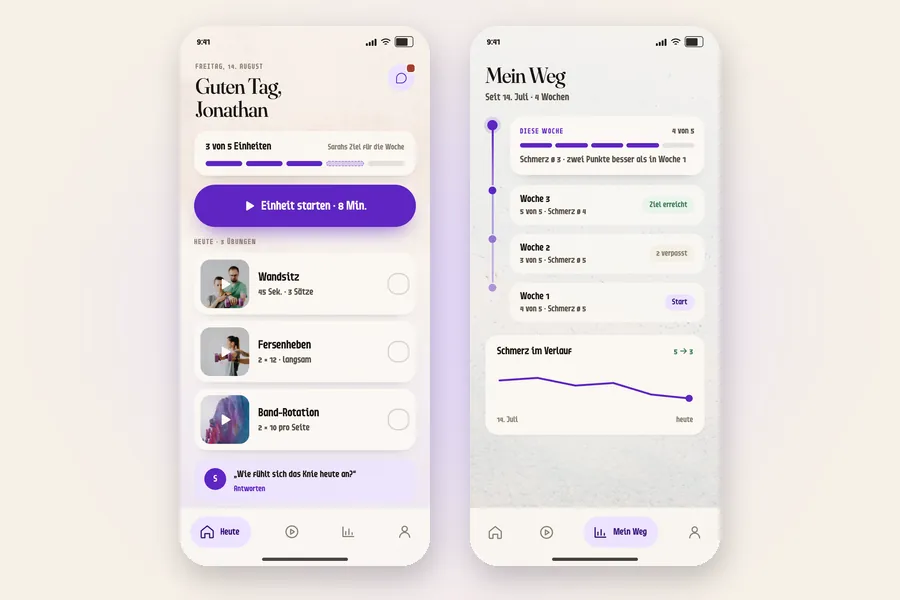
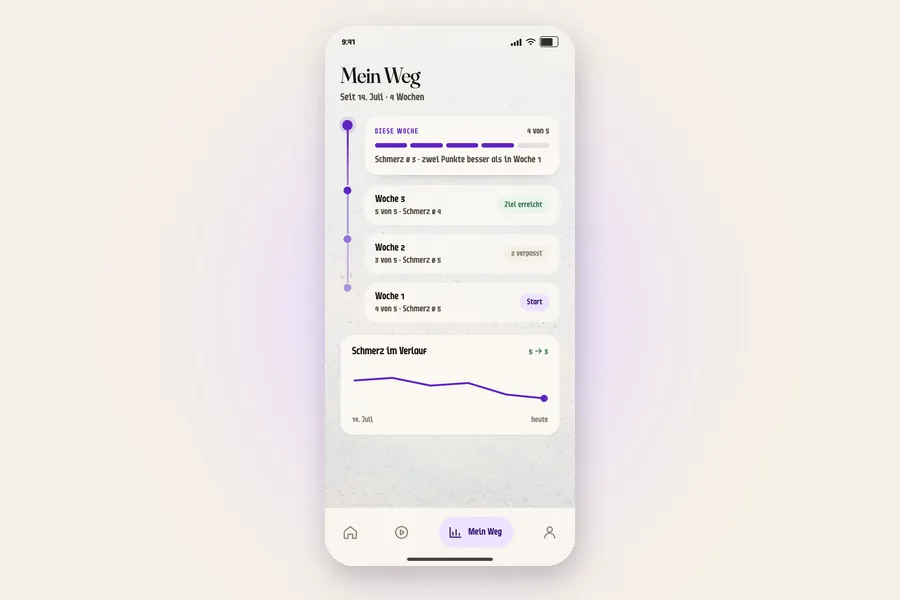
Code Loft: review fixes — no sample names in screenshots, accurate BIT and language lines, ipt first
- screenshots: the sample patient's name masked on the Via Communa screen;
  Via Physio shows the dashboard (cropped below the sample practice name)
  and "Mein Weg" instead of screens with names and people; alts say sample data
- copy: the app's languages dropped (the app ships DE/EN only); BIT is the
  federal IT office the work is done with; earlier clients not called Swiss;
  shorter intro and About facts; non-breaking spaces in the tagline
- year stamps '2023–' / '2025–'; ipt is the Code Loft's first page
- LinkedIn handle from the live team page on viacommuna.com

Claude-Session: https://claude.ai/code/session_01HMXAdMJRfusU31xUmXJK78

diff --git a/src/content/content.js b/src/content/content.js
@@ -17,14 +17,14 @@
 export const profile = {
   name: 'Jonny',
   fullName: 'Jonathan Gruss',
-  tagline: 'Software engineer · Co-founder of Via Communa · Schreiner EFZ',
+  tagline: 'Software engineer · Co-founder of Via Communa · Schreiner EFZ',
   intro:
-    'Welcome to my little woodland! I trained as a Schreiner, became a software engineer, and in my free time I build Via Communa, an app for life after a stroke. Furniture, bikes and cosy rooms are what I make for joy. Wander around, hop on a snail, and poke at anything that looks interesting.',
+    'Welcome to my little woodland! I build software for a living, Via Communa in my free time, and furniture, bikes and cozy rooms for joy. Wander around, hop on a snail, and poke at anything that looks interesting.',
   location: 'Winterthur, Switzerland',
   email: 'jonathangruss@gmail.com',
   links: [
     { label: 'GitHub', href: 'https://github.com/JonnysCode', icon: 'github' },
-    { label: 'LinkedIn', href: 'https://www.linkedin.com/in/jonathangruss', icon: 'linkedin' },
+    { label: 'LinkedIn', href: 'https://www.linkedin.com/in/jonathan-gruss/', icon: 'linkedin' },
     // { label: 'Instagram (woodworking)', href: 'https://instagram.com/your-handle', icon: 'instagram' },
   ],
 };
@@ -249,20 +249,42 @@ export const entries = {
   },
 
   // ─── Software ─────────────────────────────────────────────────────────────
+  'project-backend': {
+    area: 'code',
+    kind: 'project',
+    title: 'Consulting at ipt',
+    subtitle: 'What I build by day',
+    year: '2023–',
+    summary: 'My day job: Senior Consultant and software engineer at ipt, currently for the Swiss Armed Forces.',
+    body: [
+      'By day I am a Senior Consultant at ipt, a Swiss software engineering consultancy, where I work as a software engineer.',
+      'Right now I work with BIT (the Swiss federal IT office) and the Swiss Armed Forces on rebuilding the army’s personnel management software. Besides building features end to end, I lead the AI side of the project: AI-assisted development in our team, the AI tooling around it, and AI inside the new product itself.',
+      'Right now I am prototyping the new product twice over: once designed in Figma with the help of the Figma MCP server, once built entirely in code.',
+      'Earlier at ipt I worked on Kafka-based event-streaming and integration platforms for banking and financial clients.',
+    ],
+    facts: [
+      ['Role', 'Senior Consultant (software engineer)'],
+      ['Company', 'ipt, Zurich'],
+      ['Now', 'Personnel management software for the Swiss Armed Forces, with BIT'],
+      ['Stack', 'Java, Spring Boot, Angular, Kafka, Kubernetes / OpenShift'],
+    ],
+    tags: ['Consulting', 'Java', 'Spring Boot', 'Angular', 'Kafka', 'AI engineering'],
+    featured: true,
+  },
   'project-side': {
     area: 'code',
     kind: 'project',
     title: 'Via Communa',
-    subtitle: 'A companion app for life after a stroke — and the web dashboard behind it',
-    year: 'since 2025',
+    subtitle: 'A companion app for stroke recovery — and the web dashboard behind it',
+    year: '2025–',
     summary: 'The startup I co-founded in my free time: a stroke-recovery app for patients and relatives, with a web dashboard for clinics.',
     body: [
-      'Via Communa is a digital companion for people after a stroke and for the relatives who support them. The app offers guided exercises for the body, the mind and everyday life, explains what happens after a stroke, and comes with Simi, a friendly turtle who stands for patience, consistency and steady progress.',
-      'I co-founded Via Communa with a team from healthcare, technology and psychology. As its CTO and only software engineer I design and build the whole platform myself: the mobile app for iOS and Android, the backend, and the web dashboard where therapists create exercise content and clinics follow their patients’ progress.',
-      'It is meant to complement therapy, not replace it: something to practise with between sessions and once you are back home. Made and hosted in Switzerland, it speaks German, French and English.',
+      'Via Communa is a digital companion for stroke survivors and for the relatives who support them. The app offers guided exercises for the body, the mind and everyday life, explains what happens after a stroke, and comes with Simi, a friendly turtle who stands for patience, consistency and steady progress.',
+      'Via Communa has four co-founders, from healthcare, technology and psychology; I am the technology one, its CTO and only software engineer. I design and build the whole platform myself: the mobile app for iOS and Android, the backend, and the web dashboard. There, therapists create exercise content and clinics follow their patients’ progress.',
+      'It is meant to complement therapy, not replace it: something to practise with between sessions and back at home. It is developed and hosted in Switzerland.',
     ],
     facts: [
-      ['Role', 'Co-founder & CTO, sole software engineer'],
+      ['Role', 'Co-founder & CTO'],
       ['Platform', 'Mobile app (iOS & Android) · web dashboard · website'],
       ['Stack', 'React Native & Expo, Next.js, TypeScript, Supabase (Postgres)'],
     ],
@@ -279,41 +301,20 @@ export const entries = {
     year: '2026',
     summary: 'A home-exercise app for physiotherapy practices, with a practice dashboard and its own landing page.',
     body: [
-      'Via Physio is Via Communa’s app for physiotherapy practices. The therapist films an exercise on their phone while the patient does it. At home, the patient practises with exactly that video — timer and set counter included — and after each exercise reports pain and difficulty, straight to the therapist’s inbox.',
+      'Via Physio is another product from Via Communa, made for physiotherapy practices. The therapist films an exercise on their phone while the patient does it. At home, the patient practises with exactly that video — timer and set counter included — and after each exercise reports pain and difficulty, straight to the therapist’s inbox.',
       'Around the app sit a practice dashboard (“Praxis”), where owners invite their therapists and keep an eye on team, patients, seats and video storage, and a landing page that explains it all to practices and their patients. I build all three.',
     ],
     facts: [
       ['Parts', 'Mobile app · practice dashboard · landing page'],
+      ['Status', 'Pilot phase — practices can join the pilot'],
       ['Stack', 'Expo & React Native, React, Next.js, TypeScript, Supabase'],
     ],
     tags: ['Digital health', 'Physiotherapy', 'Expo', 'Next.js'],
     images: [
-      { src: 'images/via-physio-app.webp', alt: 'Via Physio: today’s session and the patient’s path, week by week' },
-      { src: 'images/via-physio-dashboard.webp', alt: 'The practice dashboard, with sample data' },
+      { src: 'images/via-physio-dashboard.webp', alt: 'The practice dashboard (sample data)' },
+      { src: 'images/via-physio-app.webp', alt: 'Via Physio: a patient’s progress, week by week (sample data)' },
     ],
     links: [{ label: 'viaphysio.app', href: 'https://www.viaphysio.app/en/' }],
-    featured: true,
-  },
-  'project-backend': {
-    area: 'code',
-    kind: 'project',
-    title: 'Consulting at ipt',
-    subtitle: 'Senior Consultant at a Swiss software engineering consultancy',
-    year: 'since 2023',
-    summary: 'My day job: Senior Consultant and software engineer at ipt, currently for the Swiss Armed Forces.',
-    body: [
-      'By day I am a Senior Consultant at ipt, a Swiss software engineering consultancy, where I work as a software engineer.',
-      'Right now I work for the Swiss Armed Forces through the Federal Office of Information Technology (BIT), on rebuilding their personnel management software. Besides building features end to end, I lead the AI side of the project: AI-assisted development in our team, the AI tooling around it, and AI inside the new product itself.',
-      'Right now I am prototyping the new product twice over: once designed in Figma with the help of the Figma MCP server, once built entirely in code.',
-      'Earlier at ipt I worked on Kafka-based event-streaming and integration platforms for Swiss banking and financial clients.',
-    ],
-    facts: [
-      ['Role', 'Senior Consultant (software engineer)'],
-      ['Company', 'ipt, Zurich'],
-      ['Now', 'Personnel management software for the Swiss Armed Forces, via BIT'],
-      ['Stack', 'Java, Spring Boot, Angular, Kafka, Kubernetes / OpenShift'],
-    ],
-    tags: ['Consulting', 'Java', 'Spring Boot', 'Angular', 'Kafka', 'AI engineering'],
     featured: true,
   },
   'this-portfolio': {
@@ -337,6 +338,7 @@ export const entries = {
     links: [{ label: 'Source on GitHub', href: 'https://github.com/JonnysCode/portfolio' }],
     featured: true,
   },
+
   // ─── Home ─────────────────────────────────────────────────────────────────
   'about-me': {
     area: 'home',
@@ -345,15 +347,15 @@ export const entries = {
     subtitle: 'A software engineer with sawdust in the pockets',
     summary: 'Who lives in this cottage.',
     body: [
-      'Hi, I am Jonny. I started out as a Schreiner: an apprenticeship, then several years as a cabinetmaker and assembly carpenter in Swiss joineries. Then I went back to school — a professional baccalaureate, a bachelor’s in computer science at ZHAW (with an exchange semester in Seoul) and a master’s at the University of St. Gallen.',
-      'Today I am a Senior Consultant at ipt, where I work as a software engineer. In my free time I build Via Communa, an app for people after a stroke, as its co-founder and CTO. And I never stopped making things with my hands.',
+      'Hi, I am Jonny. I started out as a Schreiner: an apprenticeship, then several years as a cabinetmaker and assembly carpenter in Swiss joineries. Then I went back to school — a professional baccalaureate, a bachelor’s in computer science at ZHAW (with an exchange semester in Seoul) and a master’s in computer science at the University of St. Gallen.',
+      'Today I am a Senior Consultant at ipt, where I work as a software engineer. In my free time I build Via Communa, an app for people after a stroke, as its co-founder and CTO. Through all of it, I never stopped making things with my hands.',
       'DRAFT — A few sentences about what drives you, and what you are looking for.',
     ],
     facts: [
       ['Based in', 'Winterthur, Switzerland'],
-      ['Day job', 'Senior Consultant (software engineer) at ipt'],
-      ['Free time', 'Co-founder & CTO of Via Communa'],
-      ['Studied', 'Computer science — BSc ZHAW, MSc HSG'],
+      ['Day job', 'Senior Consultant at ipt'],
+      ['Free time', 'Via Communa · Via Physio'],
+      ['Studied', 'BSc ZHAW · MSc HSG'],
       ['Hands-on', 'Woodworking · Bikes · Interiors'],
     ],
     featured: true,
